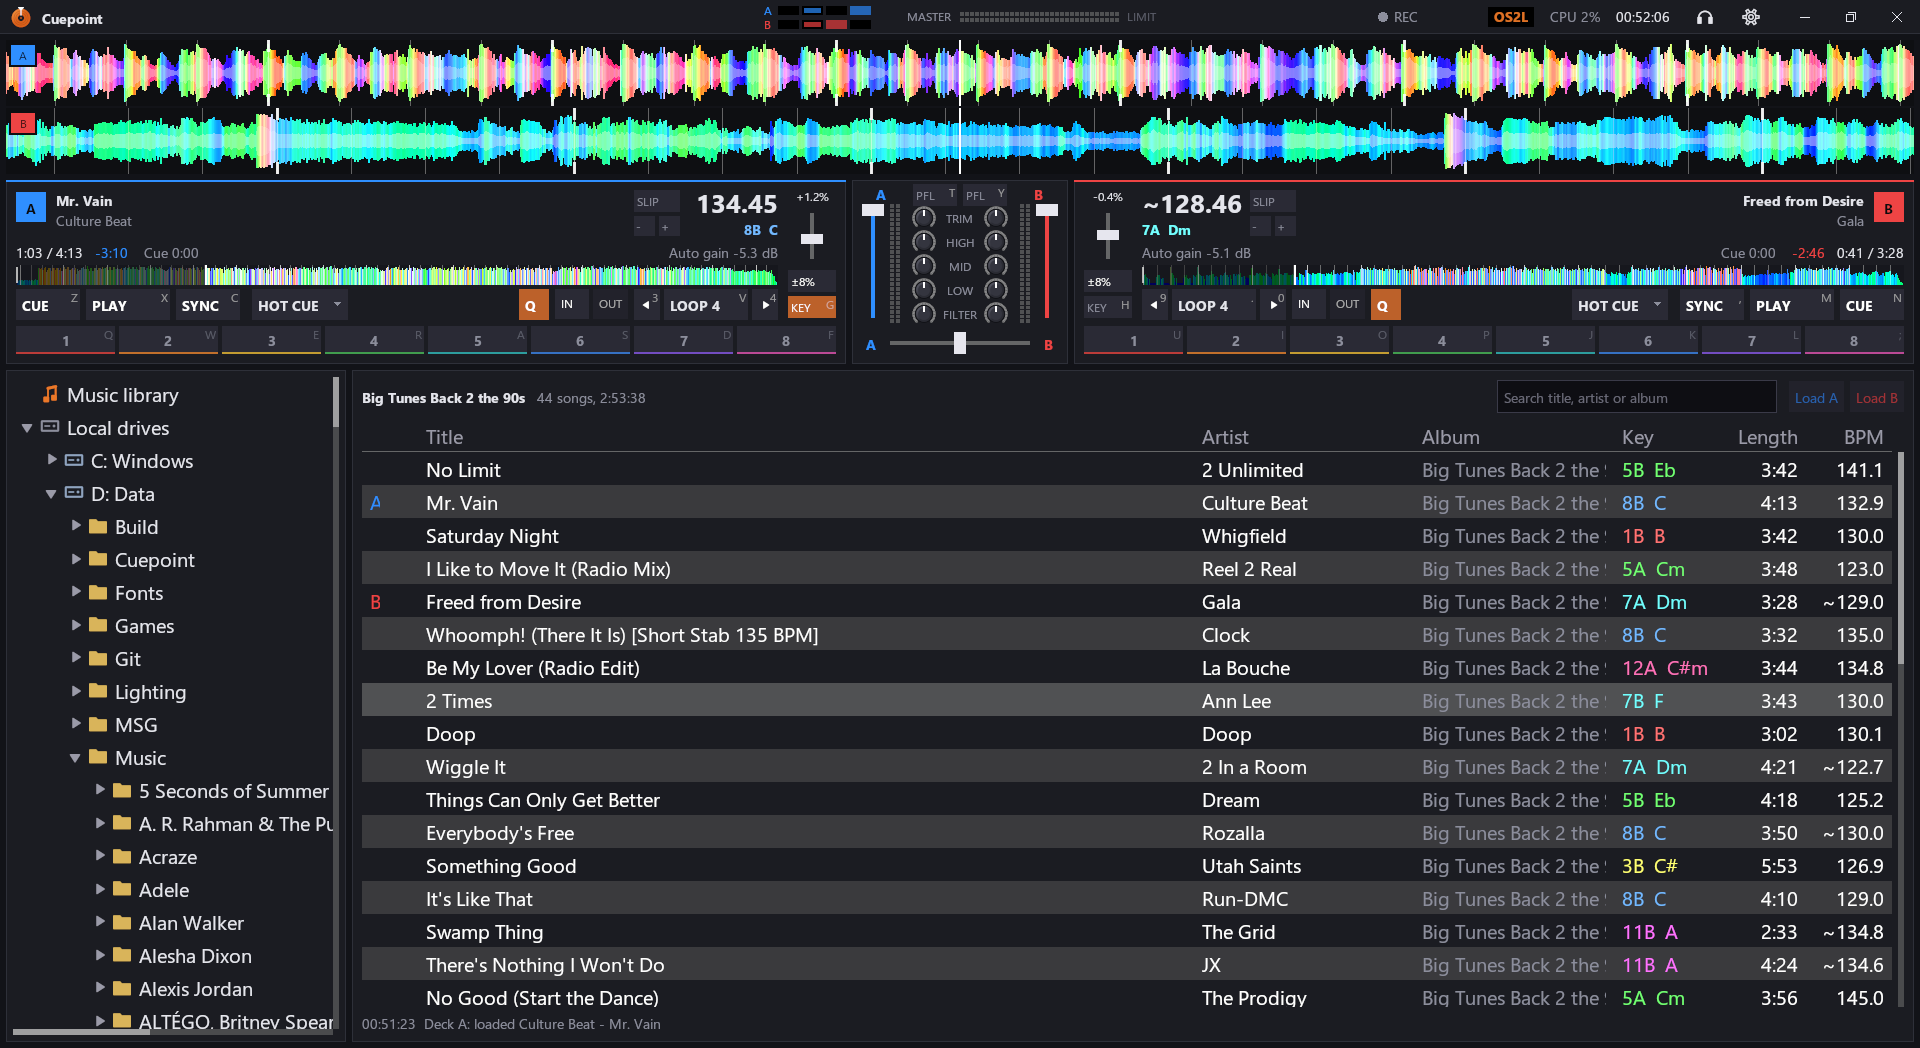
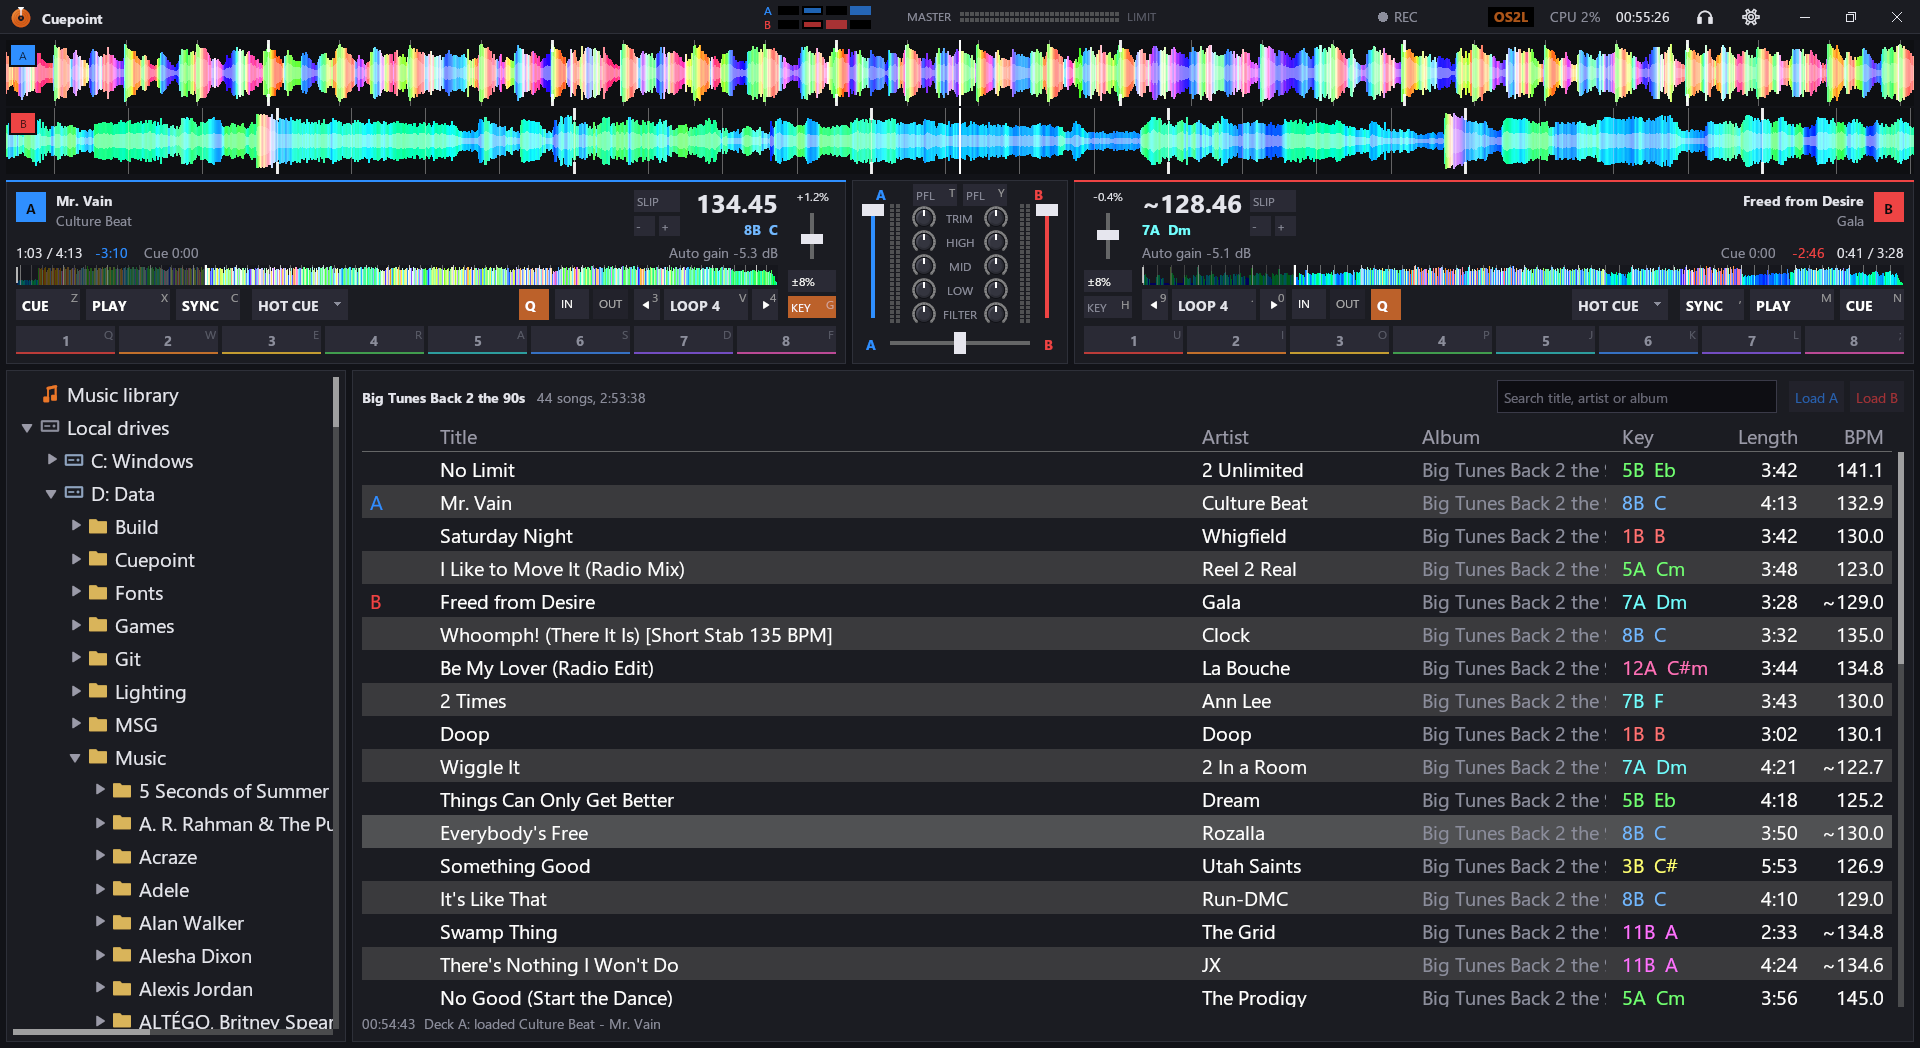
Fit the song list's deck letters to its text size
The column of the decks a song is on was a fixed 26 pixels, too narrow for
a letter in the large list text, which lost its right edge. It's now as
wide as "AB" in the list's font, both letters for a song on both decks.
The README's screenshot shows it.

Changed region(s): [[0.2188, 0.3969, 0.4375, 0.9771]]

diff --git a/Brutality/UI/SongBrowser.cs b/Brutality/UI/SongBrowser.cs
@@ -40,6 +40,9 @@ sealed class SongBrowser : Panel
     readonly Label _status;
     readonly ListColumn<Song> _titleColumn;
 
+    // The letters of the decks a song's on, sized to the list's text (see Measure).
+    readonly ListColumn<Song> _deckColumn;
+
     // Every column there is, in order, shown or not, and how wide each starts.
     readonly List<ListColumn<Song>> _columns = [];
     readonly Dictionary<ListColumn<Song>, float> _defaultWidths = [];
@@ -160,15 +163,14 @@ sealed class SongBrowser : Panel
         };
         // The title takes whatever width the rest leave, so it's the one column that isn't sized by hand.
         _titleColumn = new ListColumn<Song>("Title", 300, song => song.Title) { SortKey = song => Text(song.Title), Resizable = false };
-        _columns.Add(
-            new ListColumn<Song>("", 26, song => string.Concat(DecksOf(song)))
-            {
-                Id = "Deck",
-                Color = song => DecksOf(song) is [var deck, ..] ? Theme.DeckColor(deck) : null,
-                SortKey = song => DecksOf(song) is { Count: > 0 } decks ? string.Concat(decks) : null,
-                Resizable = false,
-            }
-        );
+        _deckColumn = new ListColumn<Song>("", 26, song => string.Concat(DecksOf(song)))
+        {
+            Id = "Deck",
+            Color = song => DecksOf(song) is [var deck, ..] ? Theme.DeckColor(deck) : null,
+            SortKey = song => DecksOf(song) is { Count: > 0 } decks ? string.Concat(decks) : null,
+            Resizable = false,
+        };
+        _columns.Add(_deckColumn);
         _columns.Add(
             new ListColumn<Song>("", 30, _ => "")
             {
@@ -465,6 +467,9 @@ sealed class SongBrowser : Panel
     public override float2 Measure()
     {
         var inner = FixedSize - new float2(2 * PAD, 2 * PAD);
+
+        // The decks' letters fit whatever size the list's text is, both of them for a song on both decks.
+        _deckColumn.Width = MathF.Ceiling(List.Font.Advance("AB")) + 2 * List.CellPadding;
 
         // The title takes whatever width the other columns leave, less the scrollbar's.
         var others = List.Columns.Where(column => column != _titleColumn).Sum(column => column.Width);
